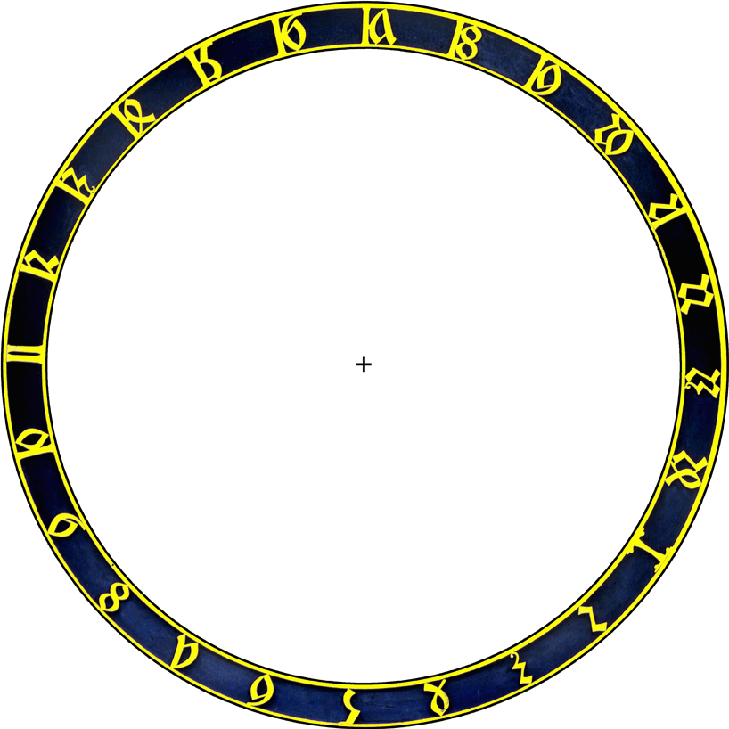
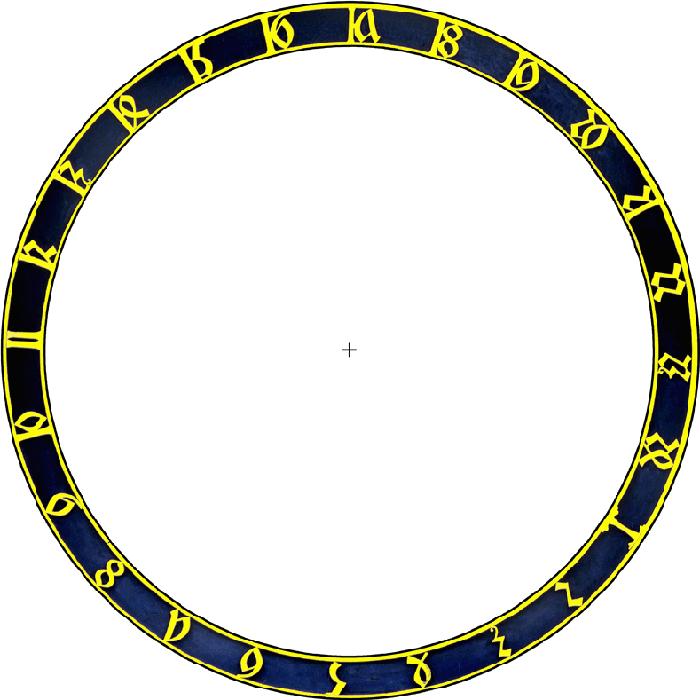
Backround Bild zugeschnitten, größere Zeitbeschleunigung hinzugefügt, Boemisches Ziffernblat hinzugefügt mit anderer Auflösung,

diff --git a/PragueClock.py b/PragueClock.py
@@ -11,7 +11,7 @@ def erstelle_fenster():
     # Hauptfenster erstellen mit Yaru-Theme
     root = ThemedTk(theme="yaru")  
     root.title("Prager Uhr Simulation")  # Fenstertitel setzen
-    root.geometry("1280x720")  # Fenstergröße setzen
+    root.geometry("1280x800")  # Fenstergröße setzen
 
     # Frame für die gesamte Anwendung
     haupt_frame = ttk.Frame(root, padding="10")
@@ -44,8 +44,7 @@ def erstelle_fenster():
 
     # Funktion zur Anzeige der Auswahl
     def auswahl_anzeigen():
-
-        #  Alle Zeiger zurücksetzen
+        # Alle Zeiger zurücksetzen
         highlight_stundenzeiger.set(False)
         highlight_minutenzeiger.set(False)
         highlight_mezzeiger.set(False)
@@ -64,13 +63,19 @@ def erstelle_fenster():
             highlight_mezzeiger.set(True)
         else:
             zeit_label.config(text="Bitte eine Option auswählen")
-            highlight_stundenzeiger.set(False)
-            highlight_minutenzeiger.set(False)
-            highlight_mezzeiger.set(False)
 
     # Button hinzufügen, um die Auswahl zu bestätigen
     bestätigungs_button = ttk.Button(elemente_frame, text="Bestätigen", command=auswahl_anzeigen)
     bestätigungs_button.grid(row=2, column=0, padx=5, pady=5)
+
+    # Button, um zur aktuellen Uhrzeit zurückzukehren
+    def setze_aktuelle_zeit():
+        nonlocal simulierte_zeit
+        simulierte_zeit = datetime.now()  # Setzt die simulierte Zeit zurück auf die aktuelle Zeit
+        geschwindigkeits_slider.set(1)  # Setzt die Geschwindigkeit zurück auf 1x
+
+    aktuelle_zeit_button = ttk.Button(elemente_frame, text="Zur aktuellen Uhrzeit", command=setze_aktuelle_zeit)
+    aktuelle_zeit_button.grid(row=6, column=0, padx=5, pady=5)
 
     # Button-Widget Beispiel
     button = ttk.Button(elemente_frame, text="Klick mich!", command=lambda: print("Button wurde geklickt!"))
@@ -84,79 +89,52 @@ def erstelle_fenster():
     uhrzeit_label = ttk.Label(uhr_frame, font=("Helvetica", 16))
     uhrzeit_label.grid(row=0, column=0, padx=10, pady=10)
 
-    # Canvas für das analoge Zifferblatt (Auflösung 600x600)
-    canvas = tk.Canvas(uhr_frame, width=600, height=600, bg="white")
+    # Canvas für das analoge Zifferblatt (Größe 700x700)
+    canvas = tk.Canvas(uhr_frame, width=700, height=700, bg="white")
     canvas.grid(row=1, column=0, padx=10, pady=10)
 
-    # Hintergrundboem_h_ziffernblatt_bild laden und auf Canvas anwenden
-    hintergrund_image = Image.open("Uhr_Backround_zugeschnitten.jpg")
-    hintergrund_image = hintergrund_image.resize((600, 600), Image.LANCZOS)  # Größe des boem_h_ziffernblatt_Bildes anpassen
+    # Hintergrundbild laden und anpassen
+    hintergrund_image = Image.open("Uhr_Backround_700x700.jpg")
+    hintergrund_image = hintergrund_image.resize((700, 700), Image.LANCZOS)
     hintergrund_tk = ImageTk.PhotoImage(hintergrund_image)
-    canvas.create_image(0, 0, image=hintergrund_tk, anchor=tk.NW)
 
     # Variable zur Simulation der Zeit
     simulierte_zeit = datetime.now()
 
     # Slidebar für Geschwindigkeitsanpassung erstellen
-    geschwindigkeits_label = ttk.Label(elemente_frame, text="Zeitraffer (-10x bis 10x)")
-    geschwindigkeits_label.grid(row=5, column=0, padx=5, pady=(10, 0))
-
-    # Slider erstellen (nicht als Yaru-Theme)
-    geschwindigkeits_slider = tk.Scale(elemente_frame, from_=-10, to=10, orient=tk.HORIZONTAL, length=200)
-    geschwindigkeits_slider.grid(row=6, column=0, padx=5, pady=10)
-    geschwindigkeits_slider.set(1)  # Standardmäßig auf 1x setzen
+    geschwindigkeits_slider = tk.Scale(elemente_frame, from_=-1000, to=1000, orient=tk.HORIZONTAL, length=200)
+    geschwindigkeits_slider.grid(row=7, column=0, padx=5, pady=10)
+    geschwindigkeits_slider.set(1)
 
     # Funktion zur Aktualisierung der Uhrzeit
     def uhrzeit_aktualisieren():
         nonlocal simulierte_zeit
-        geschwindigkeit = geschwindigkeits_slider.get()  # Geschwindigkeit aus dem Slider
-        simulierte_zeit += timedelta(seconds=1 * geschwindigkeit)  # Zeit beschleunigen
+        geschwindigkeit = geschwindigkeits_slider.get()
+        simulierte_zeit += timedelta(seconds=1 * geschwindigkeit)
         uhrzeit_label.config(text=f"Aktuelle Uhrzeit: {simulierte_zeit.strftime('%H:%M:%S')}")
-        zeichne_zifferblatt()  # Zifferblatt aktualisieren
+        zeichne_zifferblatt()
         zeichne_boem_h_ziffernblatt()
         root.after(1000, uhrzeit_aktualisieren)
 
     # Funktion zum Zeichnen des Zifferblatts
     def zeichne_zifferblatt():
         canvas.delete("all")
+        canvas.create_image(0, 0, image=hintergrund_tk, anchor=tk.NW)            
 
-        # Hintergrundboem_h_ziffernblatt_bild auf Canvas zeichnen
-        canvas.create_image(0, 0, image=hintergrund_tk, anchor=tk.NW)
-
-        # Zifferblatt zeichnen
-        canvas.create_oval(50, 50, 550, 550, outline="black", width=2)
-
-        # Stundenmarkierungen
-        for i in range(12):
-            winkel = math.radians(i * 30)
-            x1 = 300 + 240 * math.sin(winkel)
-            y1 = 300 - 240 * math.cos(winkel)
-            x2 = 300 + 280 * math.sin(winkel)
-            y2 = 300 - 280 * math.cos(winkel)
-            canvas.create_line(x1, y1, x2, y2, width=2)
-
-        # Stundenzeiger
         stunden_winkel = math.radians((simulierte_zeit.hour % 12 + simulierte_zeit.minute / 60) * 30)
-        stunden_x = 300 + 140 * math.sin(stunden_winkel)
-        stunden_y = 300 - 140 * math.cos(stunden_winkel)
-        if highlight_stundenzeiger.get():
-            canvas.create_line(300, 300, stunden_x, stunden_y, width=6, fill="red")  # Hervorhebung des Stundenzeigers
-        else:
-            canvas.create_line(300, 300, stunden_x, stunden_y, width=4, fill="white")
+        stunden_x = 350 + 200 * math.sin(stunden_winkel)
+        stunden_y = 350 - 200 * math.cos(stunden_winkel)
+        canvas.create_line(350, 350, stunden_x, stunden_y, width=4, fill="white")
 
-        # Minutenzeiger
         minuten_winkel = math.radians(simulierte_zeit.minute * 6)
-        minuten_x = 300 + 200 * math.sin(minuten_winkel)
-        minuten_y = 300 - 200 * math.cos(minuten_winkel)
-        if highlight_minutenzeiger.get():
-            canvas.create_line(300, 300, minuten_x, minuten_y, width=4, fill="blue")  # Hervorhebung des Minutenzeigers
-        else:
-            canvas.create_line(300, 300, minuten_x, minuten_y, width=2, fill="white")
+        minuten_x = 350 + 250 * math.sin(minuten_winkel)
+        minuten_y = 350 - 250 * math.cos(minuten_winkel)
+        canvas.create_line(350, 350, minuten_x, minuten_y, width=2, fill="white")
 
     # Hier beginnt Daniels Teil
 
         # Aktuelle Uhrzeit
-        stunden = time.localtime().tm_hour % 12
+        stunden = time.localtime().tm_hour % 12 # Hier vielleicht auf simulierte_zeit beziehen, der Zeiger bewegt sich nur mit aktueller Uhrzeit -Erik
         minuten = time.localtime().tm_min
         
         # Winkel der Zeiger (360 Grad = 24 Stunden oder 60 Minuten/Sekunden)
@@ -166,9 +144,9 @@ def erstelle_fenster():
         # Den Stundenzeiger für die Mitteleuropaische Zeit zeichnen
         x, y = ZeigerRechnen(250, angle_stunden)  #Koordinaten für die Spitze des Dreiecks
         if highlight_mezzeiger.get():
-            canvas.create_line(300, 300, x, y, width=7, fill='green', tags="Nadel")
+            canvas.create_line(350, 350, x, y, width=7, fill='green', tags="Nadel")
         else:
-            canvas.create_line(300, 300, x, y, width=5, fill="white")
+            canvas.create_line(350, 350, x, y, width=5, fill="white")
         
         # Liste mit den Punkten, um den Dreieck zu zeichnen (handgeformtes Polygon)
         x_h, y_h = ZeigerRechnen(200, angle_stunden)
@@ -198,13 +176,13 @@ def erstelle_fenster():
     def zeichne_boem_h_ziffernblatt():
 
         #Hintergrundboem_h_ziffernblatt_bild öffnen
-        boem_h_ziffernblatt_bild = Image.open("boem_h_ziffernblatt.png")  # Pfad zum boem_h_ziffernblatt_Bild
+        boem_h_ziffernblatt_bild = Image.open("boem_h_ziffernblatt_700x700.png")  # Pfad zum boem_h_ziffernblatt_Bild
         #Anpassung der boem_h_ziffernblatt_Bildgröße
-        boem_h_ziffernblatt_bild = boem_h_ziffernblatt_bild.resize((650, 650), Image.Resampling.LANCZOS)
+        boem_h_ziffernblatt_bild = boem_h_ziffernblatt_bild.resize((565, 565), Image.Resampling.LANCZOS)
         #Erstellung eines boem_h_ziffernblatt_Bildobjektes, das in Tkinter verwendet werden kann
         hintergrundboem_h_ziffernblatt_bild = ImageTk.PhotoImage(boem_h_ziffernblatt_bild)
         #Fügt boem_h_ziffernblatt_Bild auf dem Canvas-Widgetr hinzu und platziert es auf den Koordinaten 150,150 (Zentrierung)
-        canvas.create_image(300, 300, image=hintergrundboem_h_ziffernblatt_bild)
+        canvas.create_image(351, 348, image=hintergrundboem_h_ziffernblatt_bild) # Zentrierung funktioniert nicht ganz! Wahrscheinlich ist eines der Bilder oval oder so -Erik
         #Hält das Hintergrundboem_h_ziffernblatt_bild Objekt im Speicher, um (garbage collected) zu vermeiden
         canvas.image = hintergrundboem_h_ziffernblatt_bild
 
